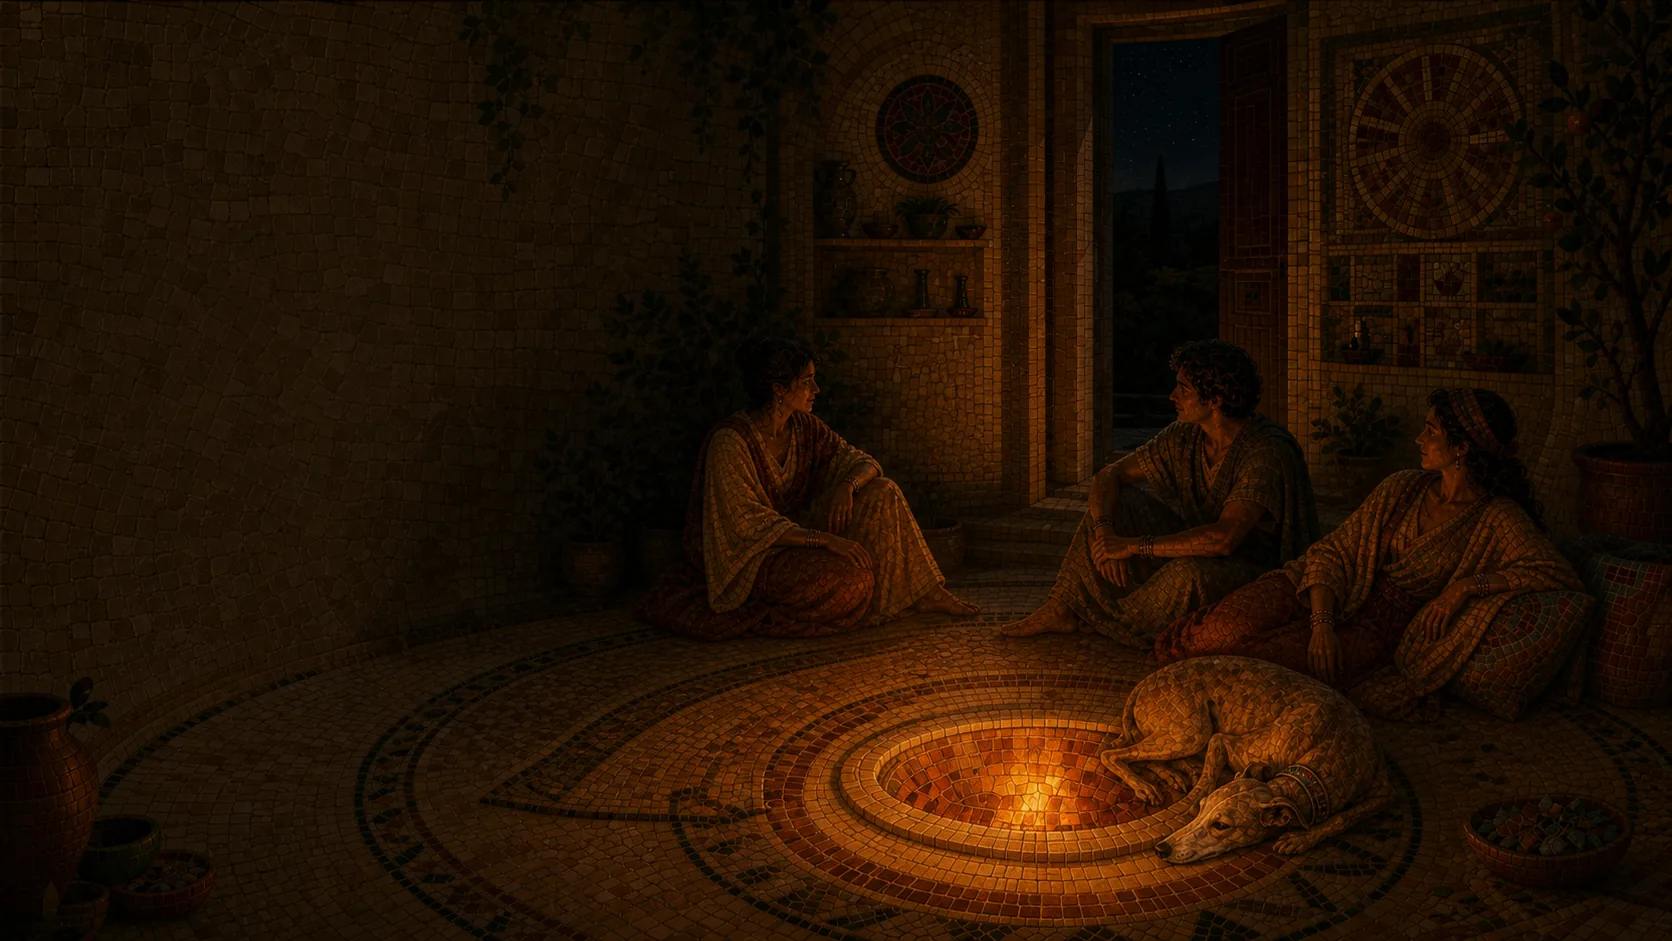
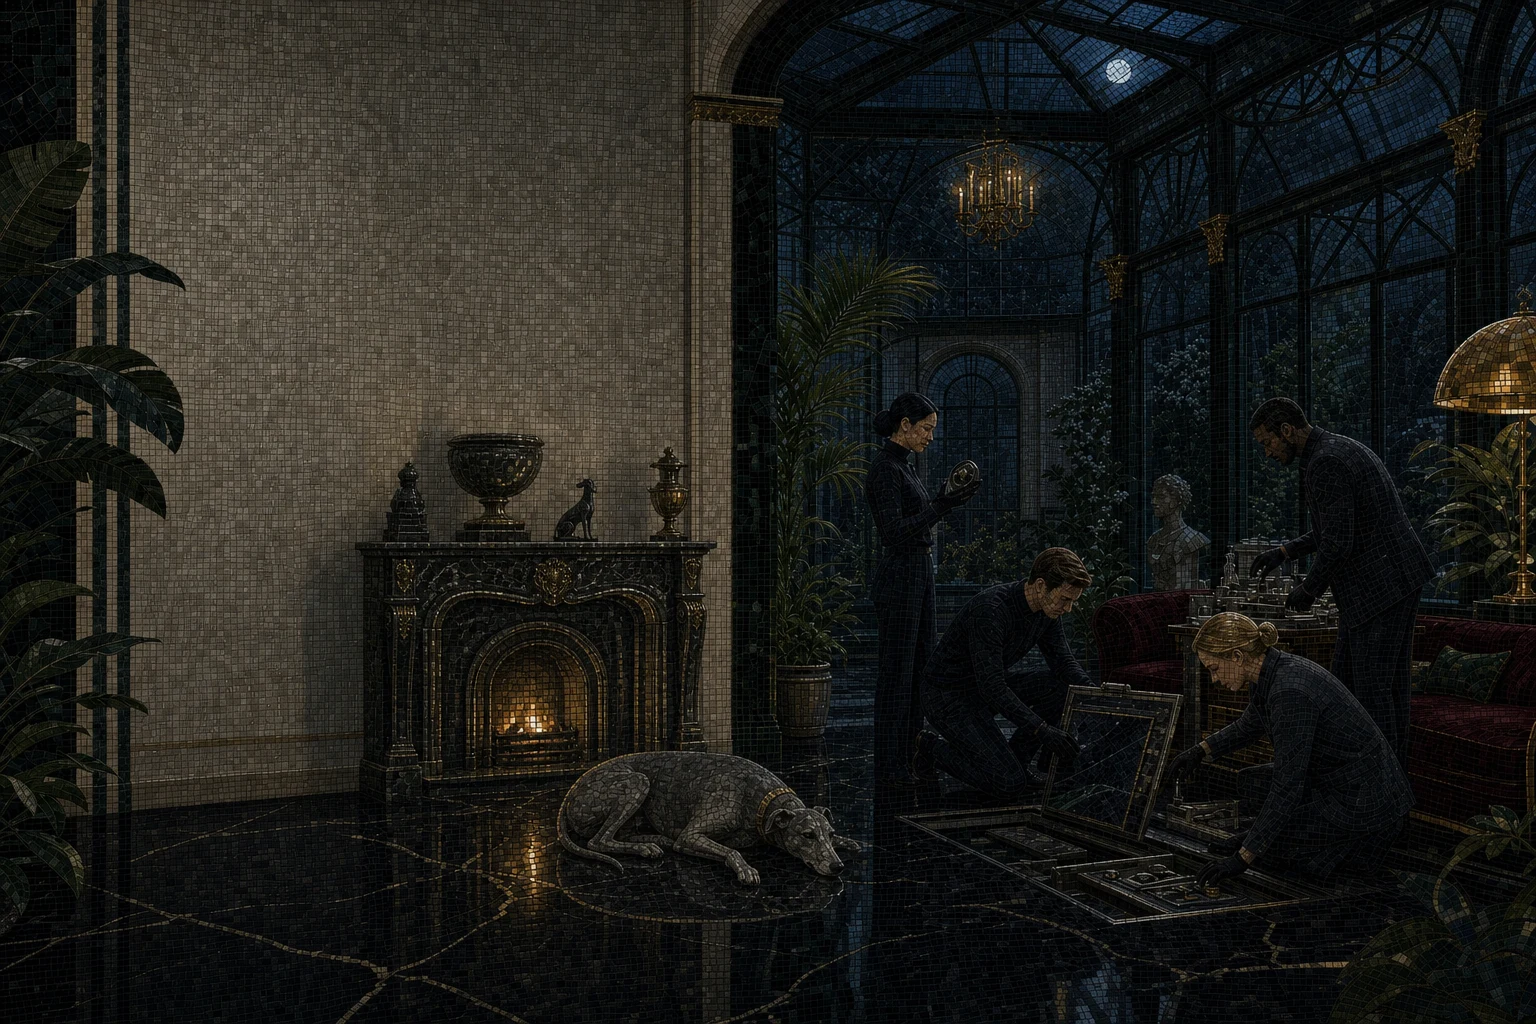
feat(site): publish 9x9 couture Pages world

diff --git a/browser/demo/app.js b/browser/demo/app.js
@@ -1,7 +1,7 @@
-import { createWorkflowV3Kernel } from "/hestia-browser/workflow-v3-kernel.js";
-import { createIdentityPackage, identityCard, restoreIdentityPackage, signIdentityMessage } from "/hestia-browser/recovery-v3.js";
-import { combineShares, splitSecret } from "/hestia-browser/shamir.js";
-import { bytesToBase64Url } from "/hestia-browser/encoding.js";
+import { createWorkflowV3Kernel } from "../hestia-browser/workflow-v3-kernel.js";
+import { createIdentityPackage, identityCard, restoreIdentityPackage, signIdentityMessage } from "../hestia-browser/recovery-v3.js";
+import { combineShares, splitSecret } from "../hestia-browser/shamir.js";
+import { bytesToBase64Url } from "../hestia-browser/encoding.js";
 
 const $ = (id) => document.getElementById(id);
 const screen = $("screen");
